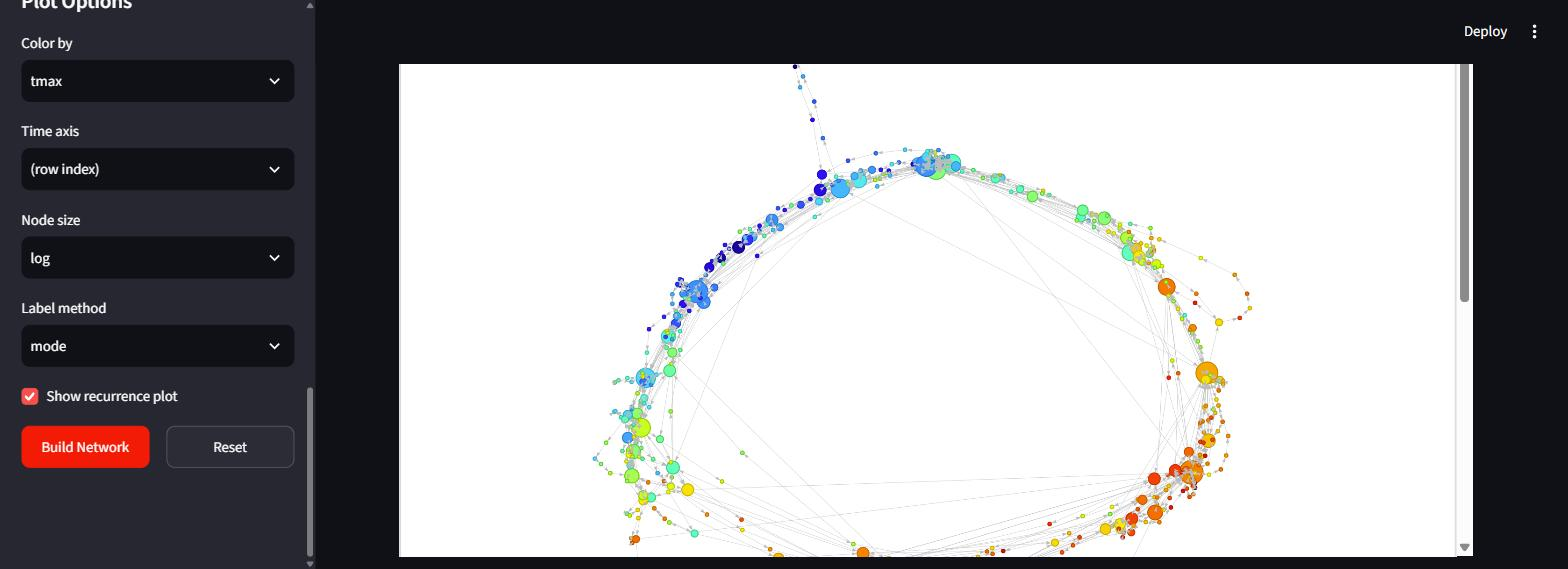
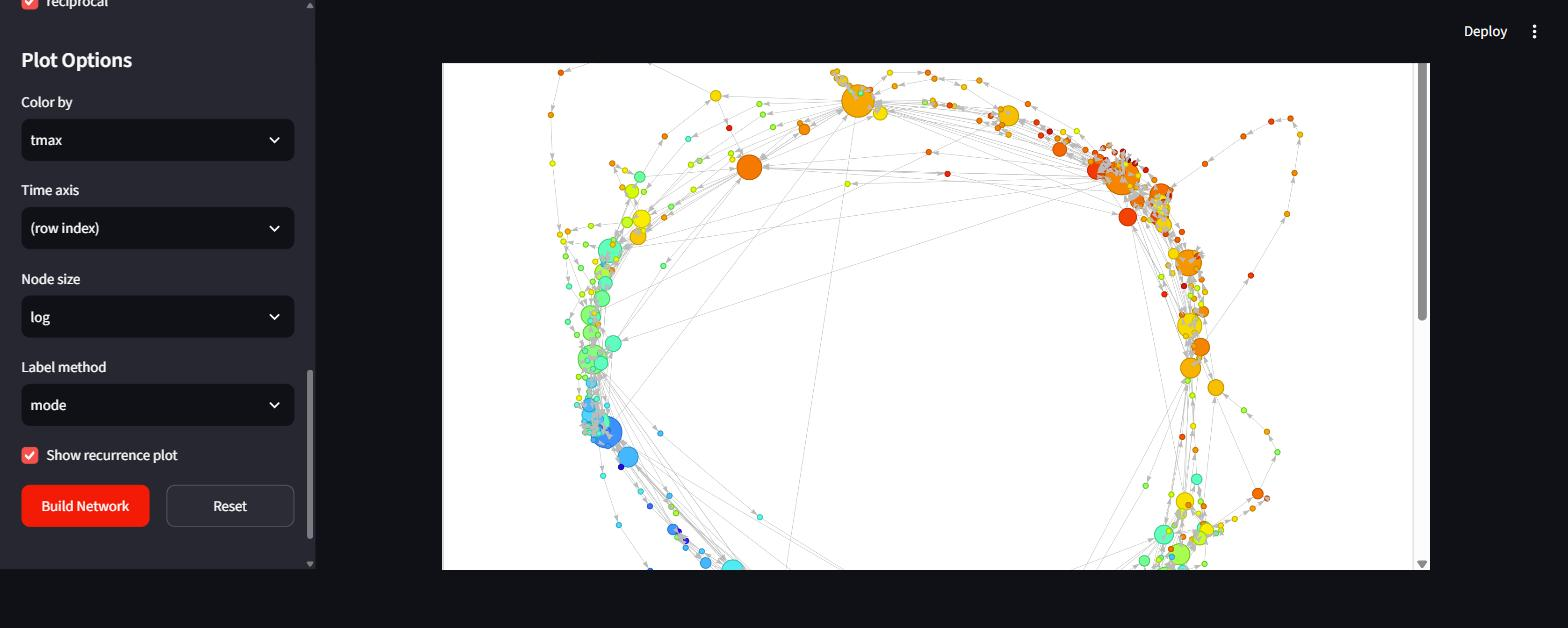
Center figures in the app and reshoot the docs screenshots
Center matplotlib figures using padding columns rather than CSS, so it
doesn't depend on Streamlit's internal DOM test-ids. A 560px figure
left-aligned under the full-width network plot looked lopsided.

The docs figures needed no change -- Material already centers <figure>
(margin: 1em auto; text-align: center) -- but the two screenshots were
captured before the width fix, so they still showed the old stretched
layout. Reshot both against the current build: the network with its
seasonal cold->warm loop, and the recurrence plot now compact and
centered, with the whole square visible instead of cropped to its
bottom edge.

diff --git a/app/streamlit_app.py b/app/streamlit_app.py
@@ -122,22 +122,27 @@ _PYPLOT_HAS_WIDTH = "width" in inspect.signature(st.pyplot).parameters
 
 
 def show_figure(fig, width_px=FIGURE_WIDTH_PX):
-    """Render a matplotlib figure at a fixed, readable width instead of
-    letting it stretch to fill the column -- a 6x5.5in figure blown up to a
-    wide monitor's width is unreadable.
+    """Render a matplotlib figure centered, at a fixed readable width
+    instead of stretched to fill the column -- a 6x5.5in figure blown up to
+    a wide monitor's width is unreadable, and left-aligning a narrow figure
+    under the full-width network plot looks lopsided.
 
-    Uses an explicit pixel width rather than 'content'/native size, since
-    the native size still rendered near 1000px. Streamlit clamps this to the
-    container on narrow screens, so it stays responsive on a phone.
+    Centering is done with padding columns rather than CSS so it doesn't
+    depend on Streamlit's internal DOM test-ids. Uses an explicit pixel
+    width rather than 'content'/native size, since the native size still
+    rendered near 1000px; Streamlit clamps it to the container on narrow
+    screens, so this stays responsive on a phone.
 
     Note on newer Streamlit: `width` defaults to 'stretch' and *overrides*
     the deprecated `use_container_width`, so passing only the old flag there
     silently does nothing.
     """
-    if _PYPLOT_HAS_WIDTH:
-        st.pyplot(fig, width=width_px)
-    else:
-        st.pyplot(fig, use_container_width=False)
+    left, mid, right = st.columns([1, 4, 1])
+    with mid:
+        if _PYPLOT_HAS_WIDTH:
+            st.pyplot(fig, width=width_px)
+        else:
+            st.pyplot(fig, use_container_width=False)
 
 
 # ==================================================== pre-flight size guard

diff --git a/docs/app.md b/docs/app.md
@@ -26,7 +26,8 @@ hovering a node reports its member count and colour value.
 /// caption
 Below it, the geodesic recurrence plot, with the **Export / share** and **Show
 equivalent code** panels beneath. The repeating block structure is the same
-seasonal recurrence seen as a loop in the network above.
+seasonal recurrence seen as a loop in the network above — bright bands mark
+times the system had to travel far around the loop to get from one to the other.
 ///
 
 ## Install and launch
